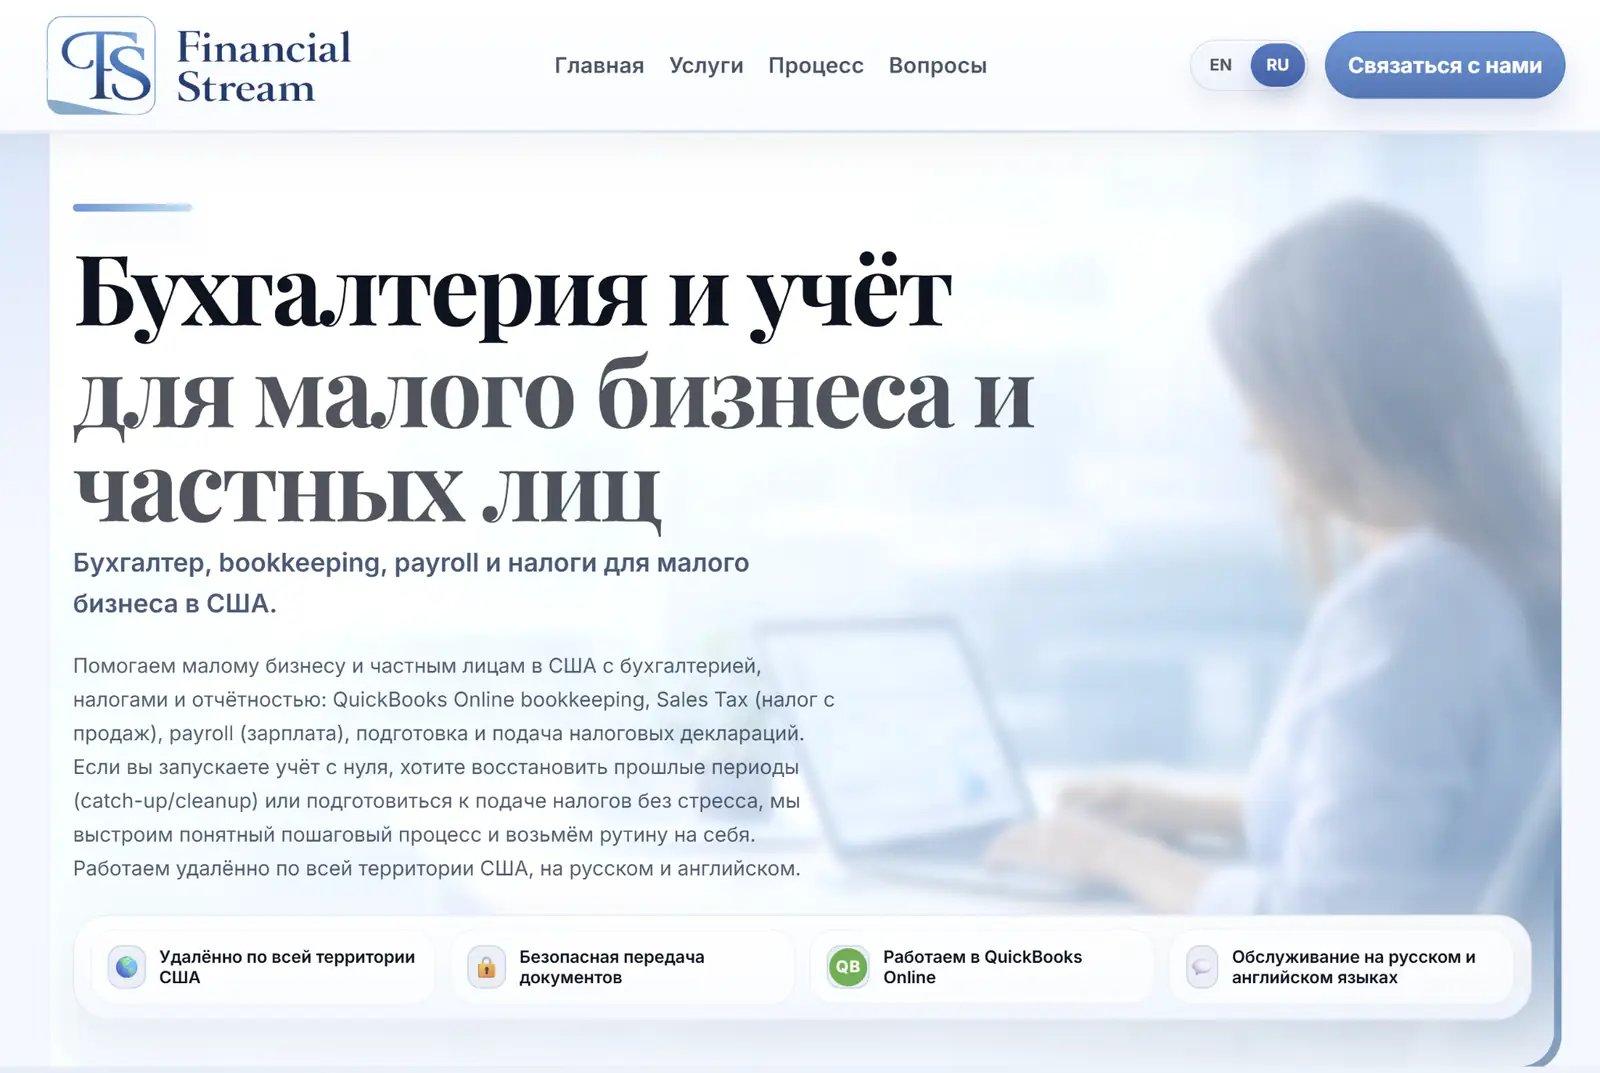
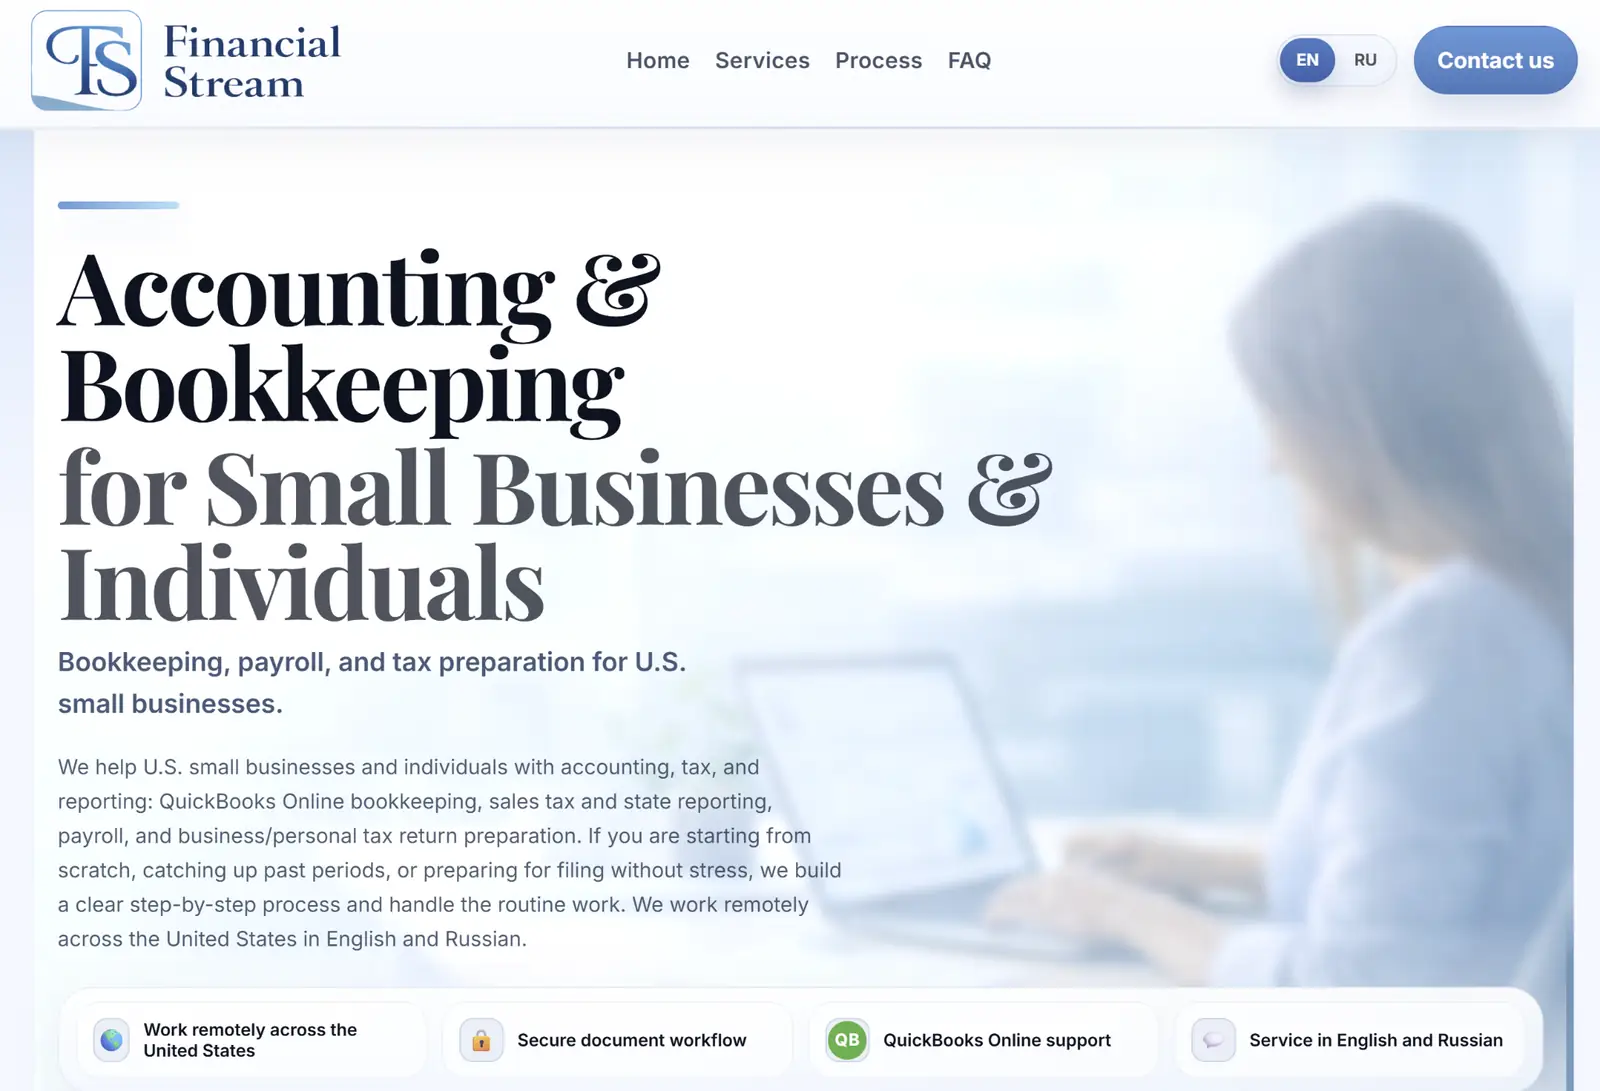
Case Studies index fixed and refined: corrected EN/RU Financial Stream screenshots, reduced ProAI card cropping, and improved premium archive copy.
Premium bilingual studio website focused on AI systems, automation, websites, and digital structure for growing businesses.

diff --git a/case-studies/index.html b/case-studies/index.html
@@ -67,7 +67,7 @@
         <div class="cases-hero-content">
           <span class="eyebrow">Case studies</span>
           <h1 id="cs-hero-heading">Selected case studies</h1>
-          <p class="cases-hero-text">A growing archive of studio work showing how AI systems, premium websites, and strong digital presentation come together in practical business projects.</p>
+          <p class="cases-hero-text">A curated selection of studio projects showing how AI systems, premium websites, and strong digital presentation come together in clear, business-facing work.</p>
           <div class="hero-actions">
             <a href="#projects" class="btn btn--primary btn--lg">Explore projects</a>
             <a href="/contact/" class="btn btn--secondary btn--lg">Discuss a project</a>
@@ -79,9 +79,9 @@
     <section class="section section--cases-grid" id="projects" aria-labelledby="projects-heading">
       <div class="container">
         <div class="section-heading">
-          <span class="eyebrow">Project archive</span>
-          <h2 id="projects-heading">Current selected projects</h2>
-          <p class="body-lg">This archive starts with two flagship cases and is designed to grow as new client systems, websites, and studio projects are added.</p>
+          <span class="eyebrow">Selected projects</span>
+          <h2 id="projects-heading">A closer look at recent studio work</h2>
+          <p class="body-lg">A focused selection of projects that show how positioning, structure, and execution come together in premium business-facing results.</p>
         </div>
         <div class="cases-grid-layout">
 
@@ -93,7 +93,7 @@
             <div class="case-card-body">
               <span class="case-card-category">Service Website · Trust, SEO &amp; Client Intake</span>
               <h3 class="case-card-title">Financial Stream LLC</h3>
-              <p class="case-card-summary">A premium accounting website designed to present services clearly, build trust from the first screen, and support real client intake through SEO structure, AI chat, booking, and streamlined contact paths.</p>
+              <p class="case-card-summary">A premium accounting website built to make the business look more established, explain services with clarity, and support real inquiries through structured contact paths, booking, and AI-assisted guidance.</p>
               <ul class="case-card-bullets">
                 <li>Clear service structure for a trust-based business</li>
                 <li>SEO depth, bilingual routing, and content coverage</li>
@@ -111,7 +111,7 @@
             <div class="case-card-body">
               <span class="case-card-category">Studio Website · AI Positioning &amp; Premium Presentation</span>
               <h3 class="case-card-title">ProAI Expert</h3>
-              <p class="case-card-summary">A flagship studio website built to present AI systems and premium web work with clearer positioning, stronger hierarchy, and a more refined visual feel across every key screen.</p>
+              <p class="case-card-summary">A flagship studio website built to present AI systems and premium web work with clearer positioning, stronger hierarchy, and a more polished visual feel across the key screens that shape first impressions.</p>
               <ul class="case-card-bullets">
                 <li>Two service directions brought into one clear system</li>
                 <li>Premium homepage hierarchy and stronger studio framing</li>
@@ -127,7 +127,7 @@
 
     <section class="section--framing-note">
       <div class="container">
-        <p class="framing-note-text">This archive is built to expand over time, with each case showing how strategy, structure, and execution come together in a premium business-facing result.</p>
+        <p class="framing-note-text">The archive is continuously expanding, with new projects added as the studio develops more systems, websites, and business-facing digital work.</p>
       </div>
     </section>
 

diff --git a/assets/css/sections.css b/assets/css/sections.css
@@ -708,7 +708,7 @@
   display: block;
   width: 100%;
   height: 100%;
-  object-fit: cover;
+  object-fit: contain;
   object-position: center top;
 }
 
@@ -1415,6 +1415,10 @@
   background: linear-gradient(135deg, #e4e9f3 0%, #d6dded 100%);
   position: relative;
   overflow: hidden;
+  display: flex;
+  align-items: flex-start;
+  justify-content: center;
+  padding: 12px 12px 0;
 }
 
 .case-card-visual::before {
@@ -1440,8 +1444,8 @@
 
 .case-card-visual-label {
   position: absolute;
-  bottom: var(--s-5);
-  right: var(--s-6);
+  bottom: var(--s-4);
+  right: var(--s-5);
   font-family: var(--font-display);
   font-size: 11px;
   font-weight: 600;
